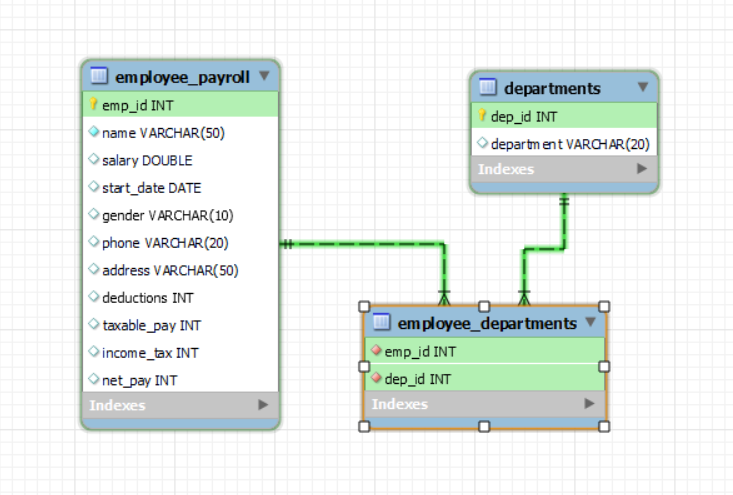
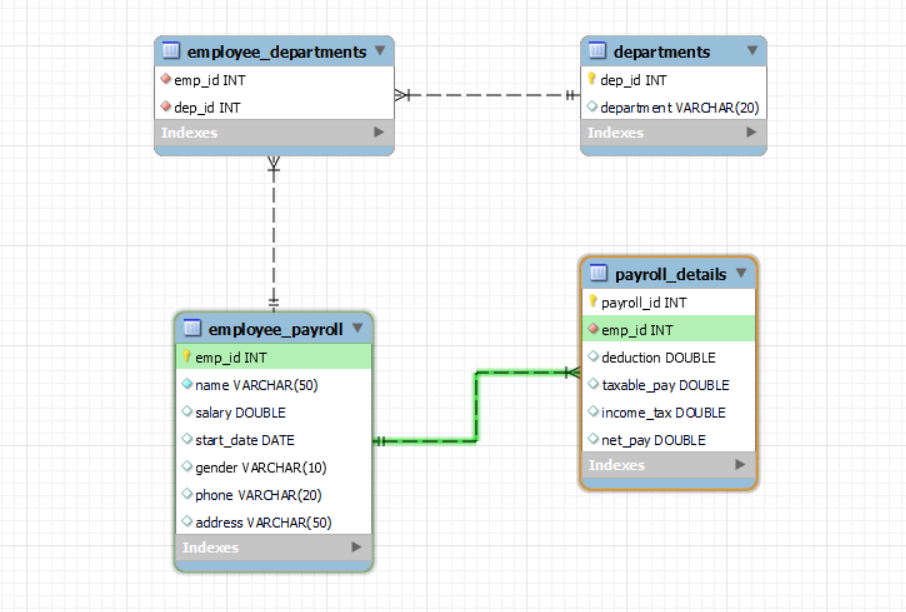
updated er diagram and all methods with db queries

diff --git a/src/main/java/com/example/DBOperations.java b/src/main/java/com/example/DBOperations.java
@@ -21,7 +21,7 @@ public class DBOperations {
     // reading all the data from the database
     public static ArrayList<Employee> readEmployees() {
         ArrayList<Employee> employeeList = new ArrayList<>();
-        String sqlQuery = "select ep.emp_id, ep.name, ep.salary, ep.start_date, ep.gender, ep.phone, ep.address, ep.deductions, ep.taxable_pay, ep.income_tax, ep.net_pay, dep.department from employee_payroll ep inner join employee_departments ed on ep.emp_id = ed.emp_id inner join departments dep on ed.dep_id = dep.dep_id;";
+        String sqlQuery = "select ep.emp_id, ep.name, ep.salary, ep.start_date, ep.gender, ep.phone, ep.address, dep.department from employee_payroll ep inner join employee_departments ed on ep.emp_id = ed.emp_id inner join departments dep on ed.dep_id = dep.dep_id;";
 
         try (
                 Connection connection = getConnection();
@@ -164,7 +164,7 @@ public class DBOperations {
     // method to get employee data in date range
     public static ArrayList<Employee> getInDataRange(String range_start_date, String range_end_date) {
         ArrayList<Employee> employeeList = new ArrayList<>();
-        String sqlQuery = "select ep.emp_id, ep.name, ep.salary, ep.start_date, ep.gender, ep.phone, ep.address, ep.deductions, ep.taxable_pay, ep.income_tax, ep.net_pay, dep.department from employee_payroll ep inner join employee_departments ed on ep.emp_id = ed.emp_id inner join departments dep on ed.dep_id = dep.dep_id where start_date between cast(? as date) and cast(? as date);";
+        String sqlQuery = "select ep.emp_id, ep.name, ep.salary, ep.start_date, ep.gender, ep.phone, ep.address, dep.department from employee_payroll ep inner join employee_departments ed on ep.emp_id = ed.emp_id inner join departments dep on ed.dep_id = dep.dep_id where start_date between cast(? as date) and cast(? as date);";
 
         try (
                 Connection connection = getConnection();
